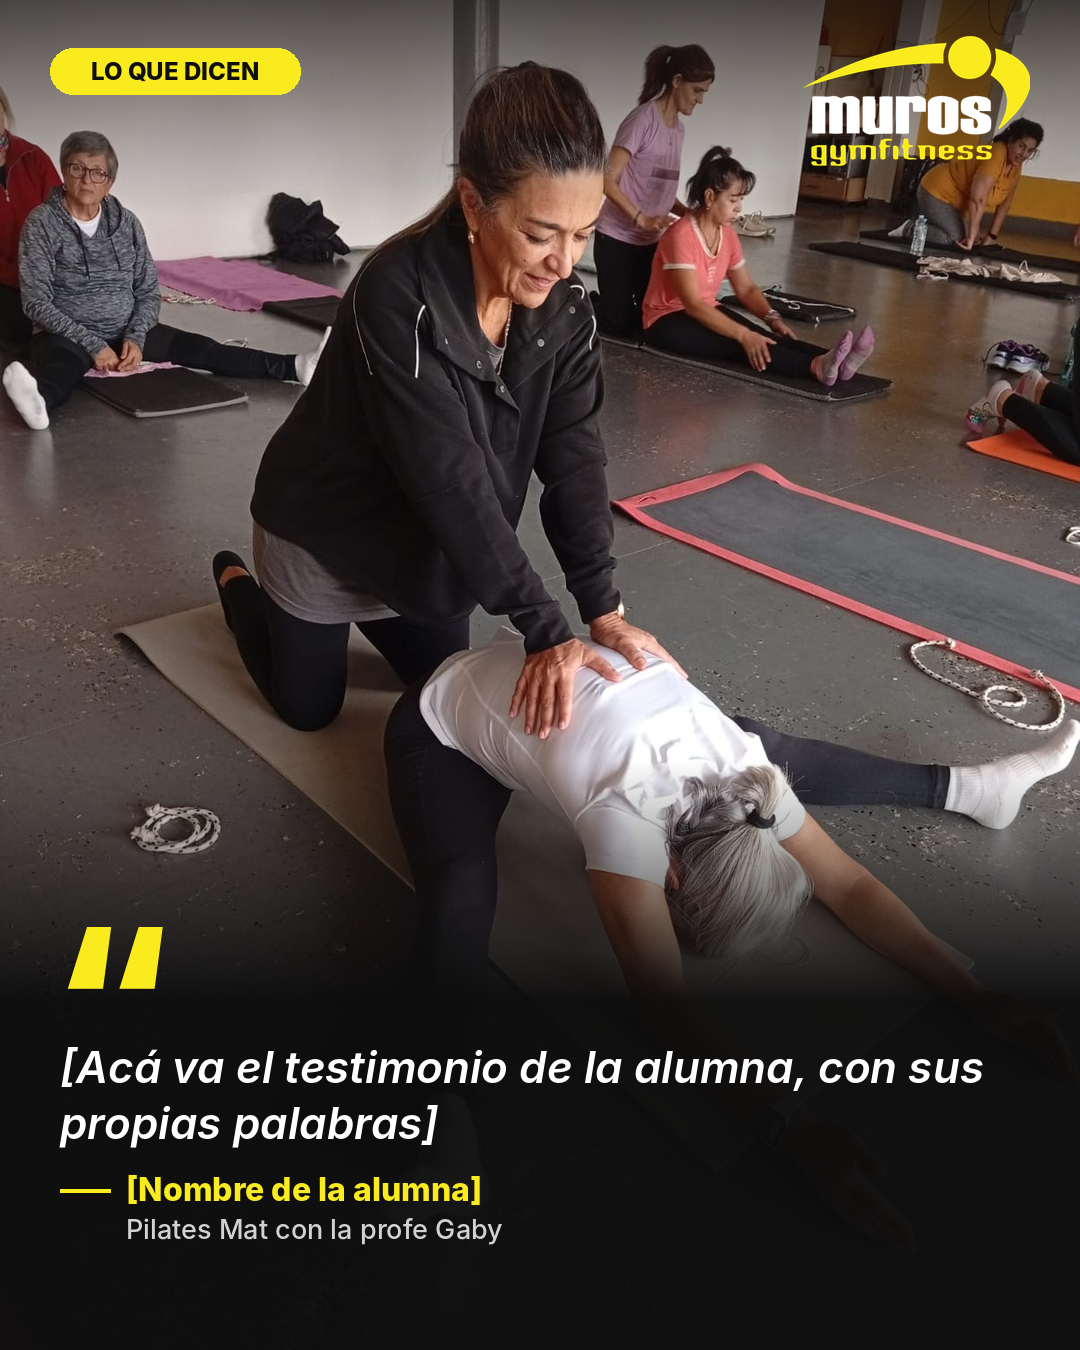
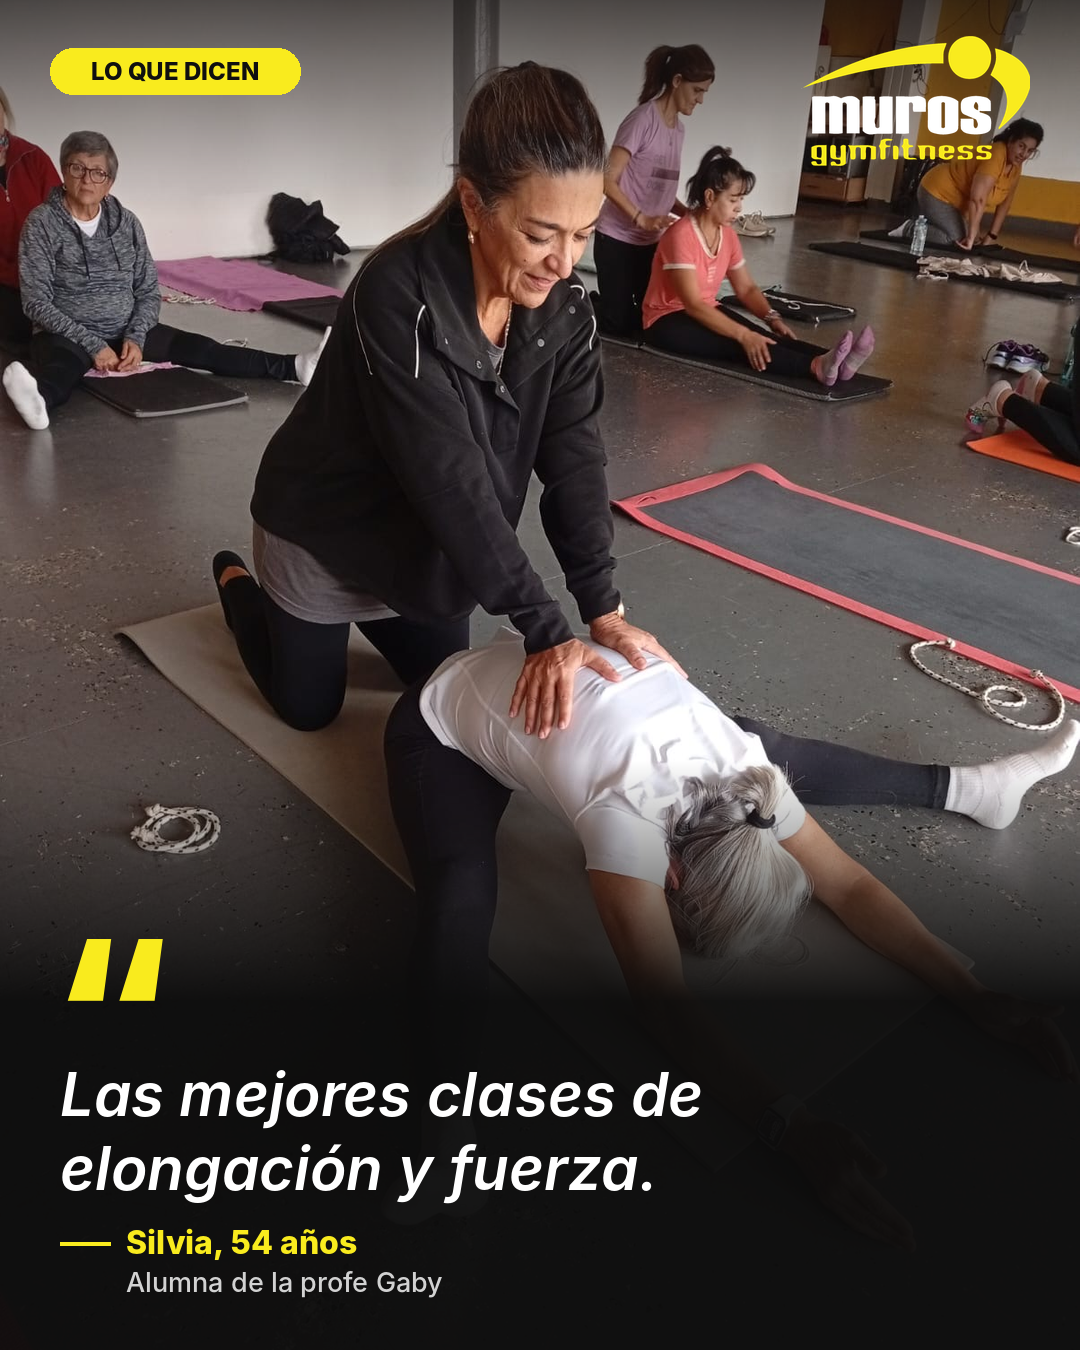
Fill in Muros testimonial: Silvia, 54 años
Claude-Session: https://claude.ai/code/session_013NcRD2AFDQkC3HztVtgsXw

Changed region(s): [[0.0611, 0.7778, 0.9167, 0.9644], [0.0611, 0.6844, 0.1528, 0.7467]]

diff --git a/posts/build_testimonio_muros.py b/posts/build_testimonio_muros.py
@@ -1,9 +1,9 @@
 from PIL import Image, ImageDraw, ImageFont
 import os
 # Completar con el testimonio real y el nombre que la alumna autorizó
-QUOTE="[Acá va el testimonio de la alumna, con sus propias palabras]"
-AUTHOR="[Nombre de la alumna]"
-CLASS="Pilates Mat con la profe Gaby"
+QUOTE="Las mejores clases de elongación y fuerza."
+AUTHOR="Silvia, 54 años"
+CLASS="Alumna de la profe Gaby"
 OUT="testimonio-muros.png"
 
 W,H=1080,1350
@@ -27,15 +27,16 @@ img.alpha_composite(logo,(W-50-logo.width,36))
 d.rounded_rectangle((50,48,50+250,48+46),radius=23,fill=Y)
 d.text((175,71),"LO QUE DICEN",font=F("Inter-ExtraBold",24),fill=(15,15,15),anchor="mm")
 # quote
-d.text((52,880),"“",font=F("Inter-Black",190) if os.path.exists("/usr/share/fonts/opentype/inter/Inter-Black.otf") else F("Inter-ExtraBold",190),fill=Y)
-fq=F("Inter-SemiBoldItalic",44); words=QUOTE.split(); lines=[""]
+fq=F("Inter-SemiBoldItalic",60 if len(QUOTE)<70 else 44); words=QUOTE.split(); lines=[""]
 for w in words:
     t=(lines[-1]+" "+w).strip()
     if d.textlength(t,font=fq)>W-120: lines.append(w)
     else: lines[-1]=t
-y=1040-max(0,len(lines)-3)*56
+lh=fq.size+14; y=1205-len(lines)*lh  # bottom-anchored so short quotes sit low
+qf=F("Inter-Black",190) if os.path.exists("/usr/share/fonts/opentype/inter/Inter-Black.otf") else F("Inter-ExtraBold",190)
+d.text((52,y-165),"“",font=qf,fill=Y)
 for l in lines:
-    d.text((60,y),l,font=fq,fill="white"); y+=56
+    d.text((60,y),l,font=fq,fill="white"); y+=lh
 y+=18
 d.line((60,y+20,110,y+20),fill=Y,width=4)
 d.text((126,y),AUTHOR,font=F("Inter-ExtraBold",32),fill=Y)
